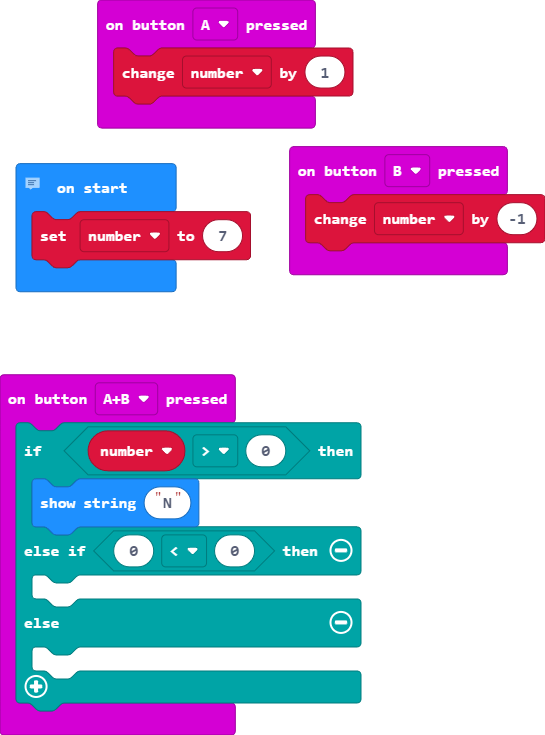
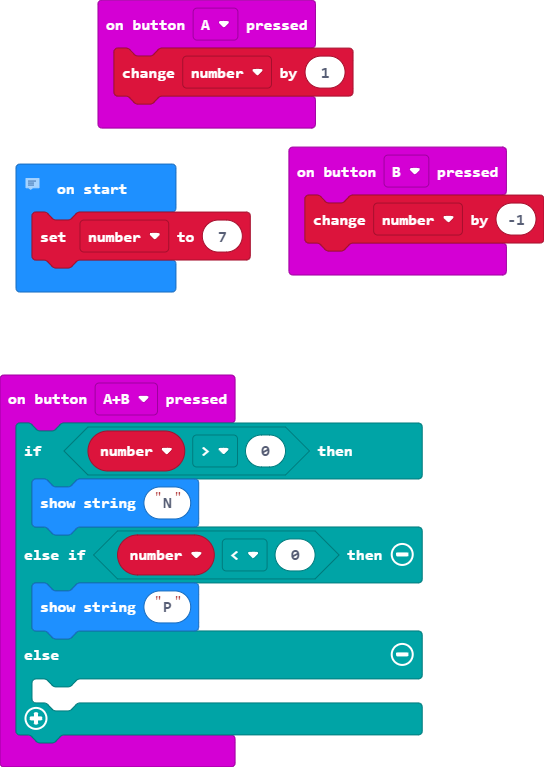
Update main.blocks, main.ts

diff --git a/main.ts b/main.ts
@@ -4,8 +4,8 @@ input.onButtonPressed(Button.A, function () {
 input.onButtonPressed(Button.AB, function () {
     if (number > 0) {
         basic.showString("N")
-    } else if (0 < 0) {
-    	
+    } else if (number < 0) {
+        basic.showString("P")
     } else {
     	
     }
